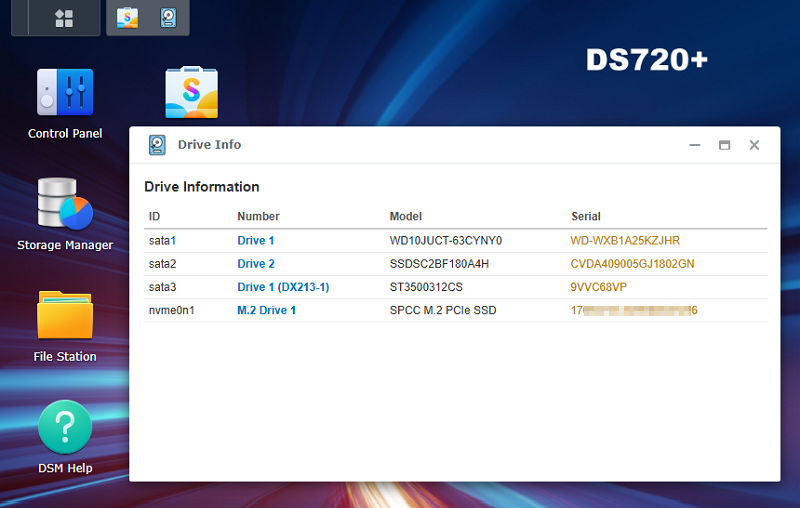
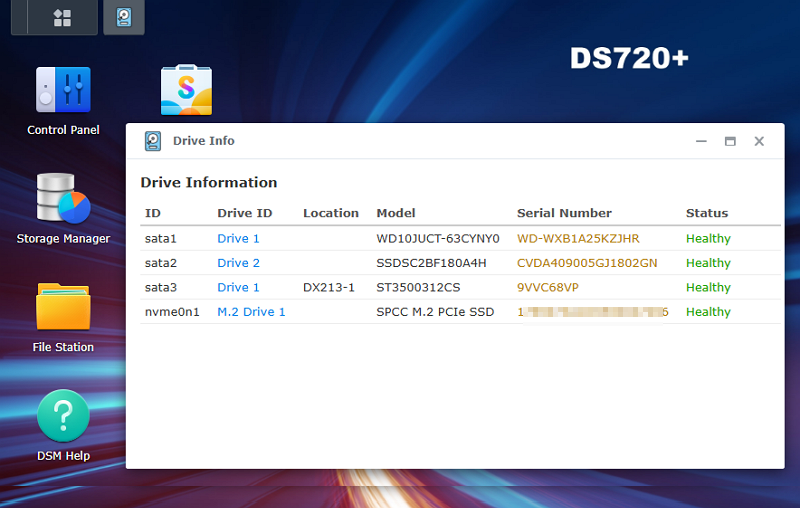
v1.0.15

diff --git a/README.md b/README.md
@@ -9,8 +9,10 @@
 
 ### Description
 
-DSM 7 package to show drive device id, DSM number, model and serial number for all drives in your Synology NAS.
+DSM package to show drive device id, DSM number, model and serial number for all drives in your Synology NAS.
   - Helps you map device ids in logs to the correct drive in Storage Manager.
+
+Available for DSM 7 and DSM 6.
 
 ### How to install the package
 
@@ -36,11 +38,16 @@ There are 2 ways to install the package:
 
 <br>
 
-<!--- <p align="center">Screenshot 3</p> -->
+<!--- <p align="center">Screenshot 2</p> -->
 <!--- <p align="center"><kbd><img src="/images/window2.png"></kbd></p> --->
 <p align="center"><kbd><img src="/images/window3.png"></kbd></p>
 
 <br>
 
-<!--- <p align="center">Screenshot 2</p> -->
+<!--- <p align="center">Screenshot 3</p> -->
 <p align="center"><kbd><img src="/images/window.png"></kbd></p>
+
+<br>
+
+<p align="center">DSM 6</p> -->
+<p align="center"><kbd><img src="/images/window_dsm6.png"></kbd></p>